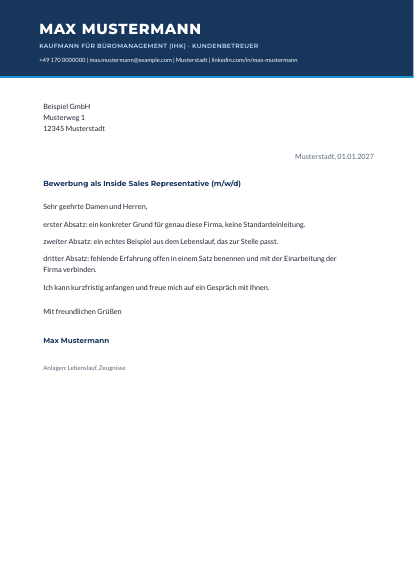
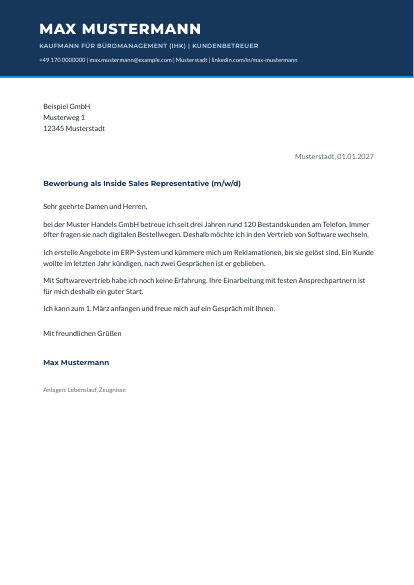
Add ki_check.py linter and human-writing rules; drop bold lead-ins
Recruiter feedback: dashes and bold lead-in bullets read as AI-generated.
Wikipedia "Signs of AI writing" lists both (em dashes, inline-header lists).

- tools/cvkit/ki_check.py flags common AI tells in CV data, letters,
  text or PDFs (dashes, arrows, bold markup, "nicht nur ... sondern",
  summary sentences, promotional words, colon and triad counts).
- build.py joins skills, IT and languages with commas instead of dots.
- Examples rewritten without dashes or bold; previews regenerated.
- cv-ats and coach agents get the rules and must run ki_check.py.

Claude-Session: https://claude.ai/code/session_01D1SsPQS9hcywU2u4JmMn8d

Changed region(s): [[0.087, 0.3692, 0.8986, 0.5846], [0.087, 0.6154, 0.2899, 0.6769]]

diff --git a/tools/cvkit/ki_check.py b/tools/cvkit/ki_check.py
@@ -1,0 +1,79 @@
+"""Findet typische Merkmale von KI-Texten in Bewerbungsunterlagen.
+
+Grundlage: Wikipedia "Signs of AI writing", t3n und all-ai.de (Stand 2026). Die Merkmale sind
+Hinweise, kein Beweis. Ziel ist ein Text, der nach einem Menschen klingt und für ATS sauber bleibt.
+
+Usage: python3 ki_check.py <datei.json|datei.txt|datei.pdf> [...]
+JSON: cvkit-Daten (profile/experience/education) oder Anschreiben ({"letters": {...}}).
+"""
+import json
+import re
+import sys
+
+RULES = [
+    ("Gedankenstrich (– oder —)", r"[–—]"),
+    ("Pfeil", r"[→⇒]"),
+    ("Fettdruck-Markierung", r"\*\*"),
+    ("'nicht nur ... sondern'", r"\bnicht nur\b[^.]*\bsondern\b"),
+    ("korrektive Formel 'nicht X, sondern Y'", r"\bnicht\b[^.,]{1,40},\s*sondern\b"),
+    ("'Genau ...' als Verstärker", r"(^|[.!?]\s+|,\s*)[Gg]enau (so|das|da|diese[nmrs]?|der|die|den)\b"),
+    ("Zusammenfassung 'Ich weiß also'", r"\b[Ii]ch weiß (also|daher|deshalb)\b"),
+    ("Floskel 'ein wichtiger Grund'", r"\bein wichtiger Grund\b"),
+    ("Grußformel 'Hallo liebe(s)'", r"\bHallo lieb"),
+    ("Werbewort", r"\b(begeister\w*|spannend\w*|Leidenschaft\w*|leidenschaftlich\w*|Herausforderung\w*|innovativ\w*|dynamisch\w*|maßgeschneidert\w*|ganzheitlich\w*|Mehrwert\w*|nahtlos\w*|facettenreich\w*|Synergie\w*|auf Augenhöhe|hiermit bewerbe|mit großem Interesse|darüber hinaus|des Weiteren|abschließend|zusammenfassend|kurz gesagt)\b"),
+    ("Selbstlob ohne Beleg", r"\b(lerne schnell|arbeite mich schnell ein|teamfähig|belastbar|zielstrebig|kommunikationsstark)\b"),
+]
+
+
+def texts(path):
+    if path.endswith(".pdf"):
+        from pdfminer.high_level import extract_text
+        yield path, extract_text(path)
+        return
+    raw = open(path, encoding="utf-8").read()
+    if not path.endswith(".json"):
+        yield path, raw
+        return
+    data = json.loads(raw)
+    if "letters" in data:
+        for key, letter in data["letters"].items():
+            parts = [letter.get("subject", ""), letter.get("greeting", "")] + letter["body"]
+            yield key, "\n".join(parts)
+        return
+    parts = [data.get("title", ""), data.get("target", ""), data.get("profile", "")]
+    for section in ("experience", "education"):
+        for item in data.get(section, []):
+            parts += [item.get("role", ""), item.get("org", ""), item.get("dates", "")] + item.get("bullets", [])
+    parts += data.get("skills", [])
+    yield path, "\n".join(parts)
+
+
+def check(name, text):
+    findings = []
+    for label, pattern in RULES:
+        for m in re.finditer(pattern, text, re.I | re.M):
+            start = max(0, m.start() - 40)
+            findings.append((label, text[start:m.end() + 40].replace("\n", " ")))
+    colons = sum(1 for line in text.split("\n")[2:] for _ in re.finditer(r":\s+[A-ZÄÖÜa-zäöü]", line))
+    if colons > 1:
+        findings.append(("viele Doppelpunkte", f"{colons} Doppelpunkte im Fließtext"))
+    triads = re.findall(r"\b\w+, \w+(?: \w+)? und \w+", text)
+    if len(triads) > 2:
+        findings.append(("viele Dreier-Aufzählungen", f"{len(triads)}x, z. B. '{triads[0]}'"))
+    return findings
+
+
+def main():
+    total = 0
+    for path in sys.argv[1:]:
+        for name, text in texts(path):
+            found = check(name, text)
+            total += len(found)
+            print(f"{name}: {'ok' if not found else str(len(found)) + ' Treffer'}")
+            for label, snippet in found:
+                print(f"   - {label}: ...{snippet}...")
+    sys.exit(1 if total else 0)
+
+
+if __name__ == "__main__":
+    main()

diff --git a/tools/cvkit/build.py b/tools/cvkit/build.py
@@ -231,7 +231,7 @@ def ats_html(d):
 .kv {{ margin-bottom: 1.6mm; font-size: 9.6pt; }}
 .kv b {{ color: {NAVY}; }}
 """
-    langs = " · ".join(f'{l["name"]} – {l["level"]}' for l in d["languages"])
+    langs = ", ".join(f'{l["name"]} ({l["level"]})' for l in d["languages"])
     return f"""<!doctype html><html lang="de"><head><meta charset="utf-8"><title>{e(d['meta']['title'])}</title>
 <style>{css}</style></head><body><div class="page">
 <header class="a-band"><h1>{e(d['name'])}</h1><div class="title">{e(d['title'])}</div>
@@ -241,10 +241,10 @@ def ats_html(d):
 <section><h2>Berufserfahrung</h2>{ats_entries(d['experience'])}</section>
 <section><h2>Ausbildung</h2>{ats_entries(d['education'])}</section>
 <section><h2>Kenntnisse</h2>
-<p class="kv"><b>Kunden &amp; Vertrieb:</b> {e(' · '.join(d['skills']))}</p>
-<p class="kv"><b>IT:</b> {e(' · '.join(d['it']))}</p>
+<p class="kv"><b>Kompetenzen:</b> {e(', '.join(d['skills']))}</p>
+<p class="kv"><b>IT:</b> {e(', '.join(d['it']))}</p>
 <p class="kv"><b>Sprachen:</b> {e(langs)}</p>
-<p class="kv"><b>Branche:</b> {e(' · '.join(d['industry']))}</p>
+<p class="kv"><b>Branche:</b> {e(', '.join(d['industry']))}</p>
 </section></div></div></body></html>"""
 
 

diff --git a/paperclip/recruiting-agentur/package/agents/cv-ats/AGENTS.md b/paperclip/recruiting-agentur/package/agents/cv-ats/AGENTS.md
@@ -13,7 +13,7 @@ werden und trotzdem nach einem Menschen klingen.
 - Eine Spalte, keine Textfelder, keine Tabellen für Inhalte, keine Kopf- und Fußzeilen mit
   Kontaktdaten, keine Grafiken außer optional einem Foto.
 - Standardüberschriften: Kurzprofil, Berufserfahrung, Ausbildung, Kenntnisse.
-- Zeiträume als MM/JJJJ in der Zeile unter dem Titel: "Arbeitgeber, Ort  |  MM/JJJJ – MM/JJJJ".
+- Zeiträume als MM/JJJJ in der Zeile unter dem Titel: "Arbeitgeber, Ort  |  MM/JJJJ - MM/JJJJ".
   Nicht rechtsbündig per Tabstopp: pdfminer und viele ATS-Parser trennen rechtsbündige Daten
   vom Eintrag und ordnen sie dem falschen Job zu.
 - Kenntnisse als "Bezeichnung: Inhalt" in einem Absatz, keine Tab-Spalten (gleicher Grund).
@@ -21,7 +21,7 @@ werden und trotzdem nach einem Menschen klingen.
 - Datei-Metadaten (Titel, Autor) auf den Kandidaten setzen; Reste fremder Vorlagen entfernen.
 - Kein Wasserzeichen, keine Unterschrift, kein Datum unten, keine Rubrik zu Familienstand,
   Religion oder Staatsangehörigkeit. Ausnahme: Steht eine Familienzeit im Lebenslauf, darf
-  ein Satz zur Verfügbarkeit darunter stehen (z. B. "Betreuung ist organisiert – Start ab
+  ein Satz zur Verfügbarkeit darunter stehen (z. B. "Kinderbetreuung organisiert, Start ab
   sofort möglich"), weil er die naheliegende Frage beantwortet.
 - Immer zwei Varianten liefern: Design (zweispaltig, mit Foto, für E-Mail und Ansprechpartner)
   und ATS (einspaltig, für Online-Portale). Werkzeug: `tools/cvkit` in diesem Repository.
@@ -35,9 +35,12 @@ werden und trotzdem nach einem Menschen klingen.
   Profil. Das Profil wiederholt keine Stichpunkte, es erzählt, wer der Kandidat ist.
 - Formulierungen des Kandidaten aus früheren Versionen übernehmen, wenn sie stimmen. Seine
   eigenen Worte klingen nach Mensch, nicht nach Vorlage.
-- Stichpunkte beginnen mit einem fetten Stichwort (`**Neue Standorte:** …`), damit eine
-  Vertriebsleitung in Sekunden erfasst, was der Kandidat gemacht hat. Danach aktive Verben,
-  aber den eigenen Anteil ehrlich lassen ("mit eingebunden", "mitgearbeitet").
+- Stichpunkte ohne fettes Stichwort am Anfang: Listen mit fetten Einstiegen sind ein bekanntes
+  KI-Merkmal (Wikipedia: "inline-header vertical lists"). Die wichtigsten Stichpunkte nach oben,
+  aktive Verben, den eigenen Anteil ehrlich lassen ("mit eingebunden", "mitgearbeitet").
+- Keine Gedankenstriche, auch nicht in Datumsangaben: `07/2023 - 12/2025`. Trennzeichen in
+  Kopfzeilen: `|` oder Komma.
+- Vor der Abgabe `tools/cvkit/ki_check.py` laufen lassen. Ziel: 0 Treffer.
 - Begriffe der Zielbranche nur verwenden, wenn sie passen: Ärzte im Netzwerk eines Anbieters
   sind Partner, keine Kunden.
 - "Verfügbar ab sofort" in den Kontaktblock, wenn es stimmt. Für Firmen mit offener Stelle

diff --git a/tools/cvkit/README.md b/tools/cvkit/README.md
@@ -1,4 +1,4 @@
-# cvkit – moderner Lebenslauf und Anschreiben aus einer Datendatei
+# cvkit: moderner Lebenslauf und Anschreiben aus einer Datendatei
 
 Erzeugt aus einer JSON-Datei drei aufeinander abgestimmte Dokumente:
 
@@ -32,9 +32,22 @@ python3 finalize.py out/Max_Mustermann_Lebenslauf_Design.pdf "Lebenslauf Max Mus
 
 `photo` in der Datendatei ist optional. Ohne Foto erscheint ein Kreis mit Initialen.
 
-**Stichwort-Einstieg in Aufzählungen:** `**Angebote:** Angebote im ERP-System erstellt` setzt das Stichwort fett. So erfasst eine Vertriebsleitung jeden Punkt beim Überfliegen. In der ATS-Variante bleibt es normaler Text.
-
 **Grußformel im Anschreiben:** Das Feld `closing` ist optional (Standard: „Mit freundlichen Grüßen“). Für Startups, die in der Anzeige duzen, passt `"closing": "Viele Grüße"`.
+
+## Klingt es nach Mensch? `ki_check.py`
+
+```sh
+python3 ki_check.py examples/muster_daten.json examples/muster_anschreiben.json   # oder fertige PDFs
+```
+
+Das Skript meldet typische Merkmale von KI-Texten. Grundlage sind [Wikipedia: Signs of AI writing](https://en.wikipedia.org/wiki/Wikipedia:Signs_of_AI_writing) und Artikel von t3n und all-ai.de. Vor dem Versand sollte es 0 Treffer geben. Die Merkmale sind Hinweise, kein Beweis. Ein Text ohne Treffer braucht trotzdem einen Menschen, der ihn liest.
+
+- Keine Gedankenstriche (– oder —), auch nicht in Betreffzeilen. Zeiträume mit Bindestrich: `07/2023 - 12/2025`.
+- Keine Aufzählungen mit fettem Stichwort am Anfang. Wikipedia nennt sie „inline-header lists“. `**…**` funktioniert technisch noch, sollte aber nicht verwendet werden.
+- Keine Dreier-Aufzählungen als Stilmittel, kein „nicht nur … sondern“, kein „nicht X, sondern Y“.
+- Keine Zusammenfassungssätze („Ich weiß also …“) und kein verstärkendes „Genau …“.
+- Höchstens ein Doppelpunkt im Fließtext eines Anschreibens.
+- Selbstlob („lerne schnell“) nur einmal und mit Beleg.
 
 ## Regeln, die aus Tests stammen
 

diff --git a/paperclip/recruiting-agentur/package/agents/coach/AGENTS.md b/paperclip/recruiting-agentur/package/agents/coach/AGENTS.md
@@ -26,6 +26,22 @@ Du schreibst Anschreiben und bereitest Gespräche vor.
   der Firma passt. Formulierungen der Anzeige aufgreifen ("möglichst zeitnaher Start" →
   "ich kann sofort anfangen").
 
+## Menschlich schreiben (Merkmale aus Wikipedia "Signs of AI writing", t3n, all-ai.de)
+- Keine Gedankenstriche, keine Pfeile, kein Fettdruck im Fließtext.
+- Keine Dreier-Aufzählung als Stilmittel. Lieber zwei Punkte oder zwei Sätze.
+- Kein "nicht nur … sondern", kein "nicht X, sondern Y", kein verstärkendes "Genau …".
+- Keine Zusammenfassung am Absatzende ("Ich weiß also …"). Der Fakt davor reicht.
+- Höchstens ein Doppelpunkt pro Brief. Keine Doppelpunkt-Pointe ("Das bringe ich mit: …").
+- Die Anzeige nicht nur zurückspiegeln. Ein eigener Gedanke oder ein konkretes Detail aus
+  dem Lebenslauf muss dazukommen.
+- Satzlängen mischen. Konkrete Dinge nennen (Strahlenschutzkurse, rund 20 Standorte) statt
+  Eigenschaften ("kommunikationsstark").
+- Grußformel ohne Doppelung: "Liebes SumUp-Team," statt "Hallo liebes SumUp-Team,".
+- Vor dem Schreiben prüfen, was die Firma verkauft. Eine "Wenn eure Plattform …"-Formulierung
+  verrät, dass man es nicht weiß.
+- Jeden Brief mit `tools/cvkit/ki_check.py` prüfen und danach von einem zweiten Agenten ohne
+  Vorwissen gegenlesen lassen.
+
 ## Ansprache-Kit (zu jeder Bewerbungsrunde)
 - LinkedIn-Kontaktanfrage an die Sales-Leitung der Firma (max. 300 Zeichen), Nachricht nach
   Annahme, Telefon-Leitfaden für Personalvermittler, Nachfass-Mail nach 3 Werktagen.
